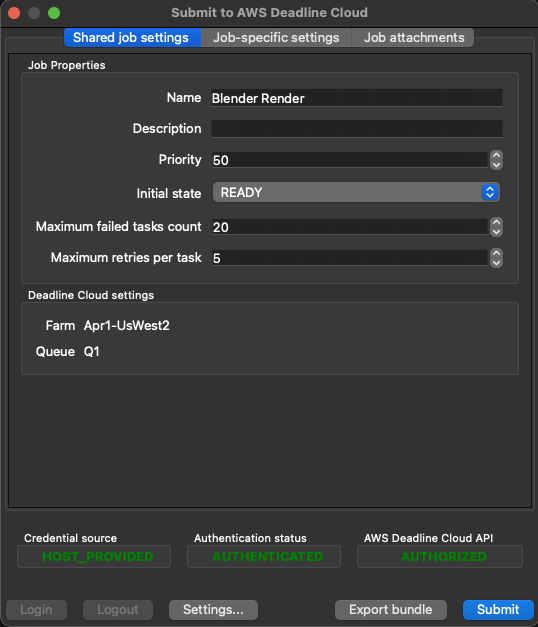
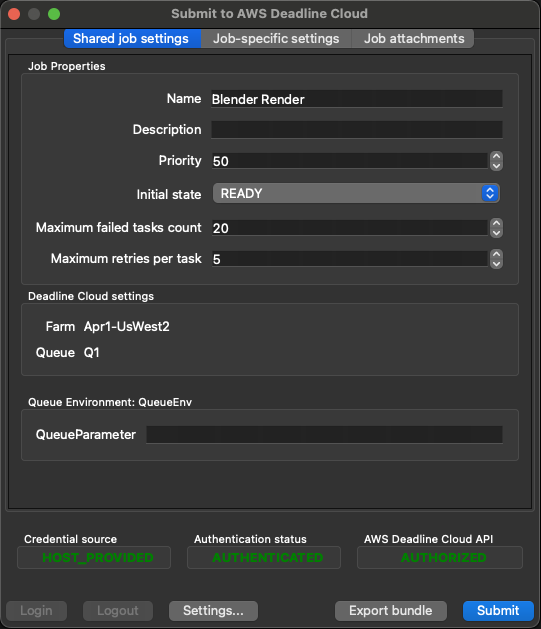
Hopefully final round of tweaks

diff --git a/job_bundles/README.md b/job_bundles/README.md
@@ -1,14 +1,14 @@
 # AWS Deadline Cloud Job Bundles
 
-Job Bundles are one of the tools that you can use to define your Jobs for AWS Deadline Cloud. They encapsulate
+Job Bundles are the easiest way to define your jobs for AWS Deadline Cloud. They encapsulate
 an [Open Job Description Job Template](https://github.com/OpenJobDescription/openjd-specifications/wiki) into a directory
 with additional information such the files and directories that your Jobs need for
 Deadline Cloud's [Job Attachments](https://docs.aws.amazon.com/deadline-cloud/latest/userguide/storage-job-attachments.html)
 feature. The [Deadline Cloud CLI](https://github.com/aws-deadline/deadline-cloud) provides ways for you to use a Job Bundle
 to submit Jobs to your Deadline Cloud Queues to be run.
 
-We recommend developing your own Job Bundle(s), either by-hand or programatically, to benefit from their
-integration with Job Attachments and an intuitive graphical Job submission interface. For example, after 
+We recommend developing your own Job Bundle(s), either by-hand or programatically, to benefit from an intuitive graphical
+Job submission interface. For example, after 
 [configuring the Deadline Cloud CLI](https://github.com/aws-deadline/deadline-cloud/blob/mainline/README.md#configuration) 
 you can run it with the Blender sample in this samples directory (`deadline bundle gui-submit blender_render/`) to see:
 
@@ -16,8 +16,8 @@ you can run it with the Blender sample in this samples directory (`deadline bund
 
 where the contents of the Job-specific settings panel are automatically generated using the `userInterface` properties of Job Parameters
 [defined in the Job Template](https://github.com/aws-deadline/deadline-cloud-samples/blob/bdd5ff5ea29eb7457c9a78ba39166b891b79151e/job_bundles/blender_render/template.yaml#L11-L19) within 
-your Job Bundle, and the [Queue Environments](https://docs.aws.amazon.com/deadline-cloud/latest/userguide/create-queue-environment.html)
-defined on the Queue that you are submitting to.
+your Job Bundle. If you also have [Queue Environments](https://docs.aws.amazon.com/deadline-cloud/latest/userguide/create-queue-environment.html) 
+defined on the Queue that you are submitting to, then UI elements to input those are generated on the "Shared job settings" tab.
 
 If you prefer an alternative to a UI-based workflow for your Job Bundles, then you can submit this Job Bundle with the command
 `deadline bundle submit --name Demo -p BlenderSceneFile=<location-of-your-scene-file> -p OutputDir=<file-path-for-job-outputs> blender_render/`
@@ -43,7 +43,7 @@ other files such as:
 ├── asset_references.yaml (or asset_references.json)
 ├── parameter_values.yaml (or parameter_values.json)
 ├── template.yaml (or template.json)
-└── <other Job-specific files that you'd like>
+└── <other Job-specific files and directories that you'd like>
 ```
 
 The only required file is the Job Template (`template.yaml`/`template.json`) file that describes the structure and behaviour
@@ -54,13 +54,8 @@ of your Job. The files are described in the following subsections.
 The Job Template file defines the runtime environment and the processes that will run
 as part of an AWS Deadline Cloud Job. It can be parameterized so that the same template can be used to
 create Jobs that differ only in their input values; much like a function or template in your favourite programming
-langauge. 
-
-
-> **NOTE:** You can also setup [Open Job Description external environments](https://github.com/OpenJobDescription/openjd-specifications/wiki/2023-09-Template-Schemas#12-environment-template)
-to Amazon Deadline Cloud Queues (see [Creating a queue environment](https://docs.aws.amazon.com/deadline-cloud/latest/userguide/create-queue-environment.html)
-in the Amazon Deadline Cloud user guide). Queue environments combine with the job template to define the job processes.
-
+language. When you submit a job to Deadline Cloud, it gets run within any queue environments that are applied to the queue.
+Queue environments use the [Open Job Description external environments specification](https://github.com/OpenJobDescription/openjd-specifications/wiki/2023-09-Template-Schemas#12-environment-template).
 
 For example, the [Job Template for the `blender_render` sample](https://github.com/aws-deadline/deadline-cloud-samples/blob/mainline/job_bundles/blender_render/template.yaml)
 defines input parameters like `BlenderSceneFile` which is a file path:
@@ -98,7 +93,11 @@ allows filtering to see only Blender's `.blend` files or all files, and within a
 See the [gui_control_showcase sample](https://github.com/aws-deadline/deadline-cloud-samples/tree/mainline/job_bundles/gui_control_showcase)
 for additional example uses of the `userInterface` property.
 
-The `objectType` and `dataFlow` properties control the behaviour of Deadline Cloud's 
+`objectType` and `dataFlow` are optional properties for `PATH` typed Job Parameters that describe how to interpret the parameter's value.
+The value of `objectType` says that the value is either a `FILE` or `DIRECTORY`. The value of `dataFlow` indicates whether the
+file/directory that the value references should be treated as a job input (`IN` value), output (`OUT` value), both input and output (`INOUT` value),
+or neither input nor output (`NONE` value).
+Deadline Cloud uses these two properties to control the behaviour of its
 [Job Attachments feature](https://docs.aws.amazon.com/deadline-cloud/latest/userguide/storage-job-attachments.html) when submitting
 a Job from the Job Bundle. In this case, `objectType: FILE` and `dataFlow: IN` mean that the value of `BlenderSceneFile`
 will be treated as an input file for Job Attachments. Contrast that with the definition of the `OutputDir` which has
@@ -204,7 +203,7 @@ Each element of the `parameterValues` list in the file can be one of the followi
     * `deadline:maxFailedTasksCount` - Value must be an integer, and is passed as the `maxFailedTasksCount` request parameter to the API.
     * `deadline:maxRetriesPerTask` - Value must be an integer, and is passed as the `maxRetriesPerTask` request parameter to the API.
 
-While a standalone Job Template is viewed as a template from which Jobs can be created, a Job Bundle can be viewed as both
+A Job Bundle can be viewed as both
 a template from which to create Jobs and a representation of a specific Job. It represents a specific Job when the Job Bundle's parameter
 values file contains all of the Job's Parameter values that the Job is submitted with.
 
@@ -252,12 +251,11 @@ can be found by running `deadline config get settings.job_history_dir`.
 
 ### Elements - Asset References
 
-The `asset_references.yaml`/`asset_references.json` file in a Job Bundle is an interface for Deadline Cloud's
-[Job Attachments feature](https://docs.aws.amazon.com/deadline-cloud/latest/userguide/storage-job-attachments.html)
-that lists input files and directories, as well as output directories for the Jobs that you
-submit. If you do not have all of your inputs and outputs for Job Attachments listed in this file
+The `asset_references.yaml`/`asset_references.json` file defines the input and output files that the Job will access
+when it runs. Deadline Cloud uses this as an interface for its
+[Job Attachments feature](https://docs.aws.amazon.com/deadline-cloud/latest/userguide/storage-job-attachments.html).
+If you do not have all of your inputs and outputs for Job Attachments listed in this file
 then you can still select them for your Job during submission with the `deadline bundle gui-submit` CLI command.
-This file has no effect if you are not using Deadline Cloud's Job Attachments feature.
 
 The format of the file and the purpose of each element is as follows:
 
